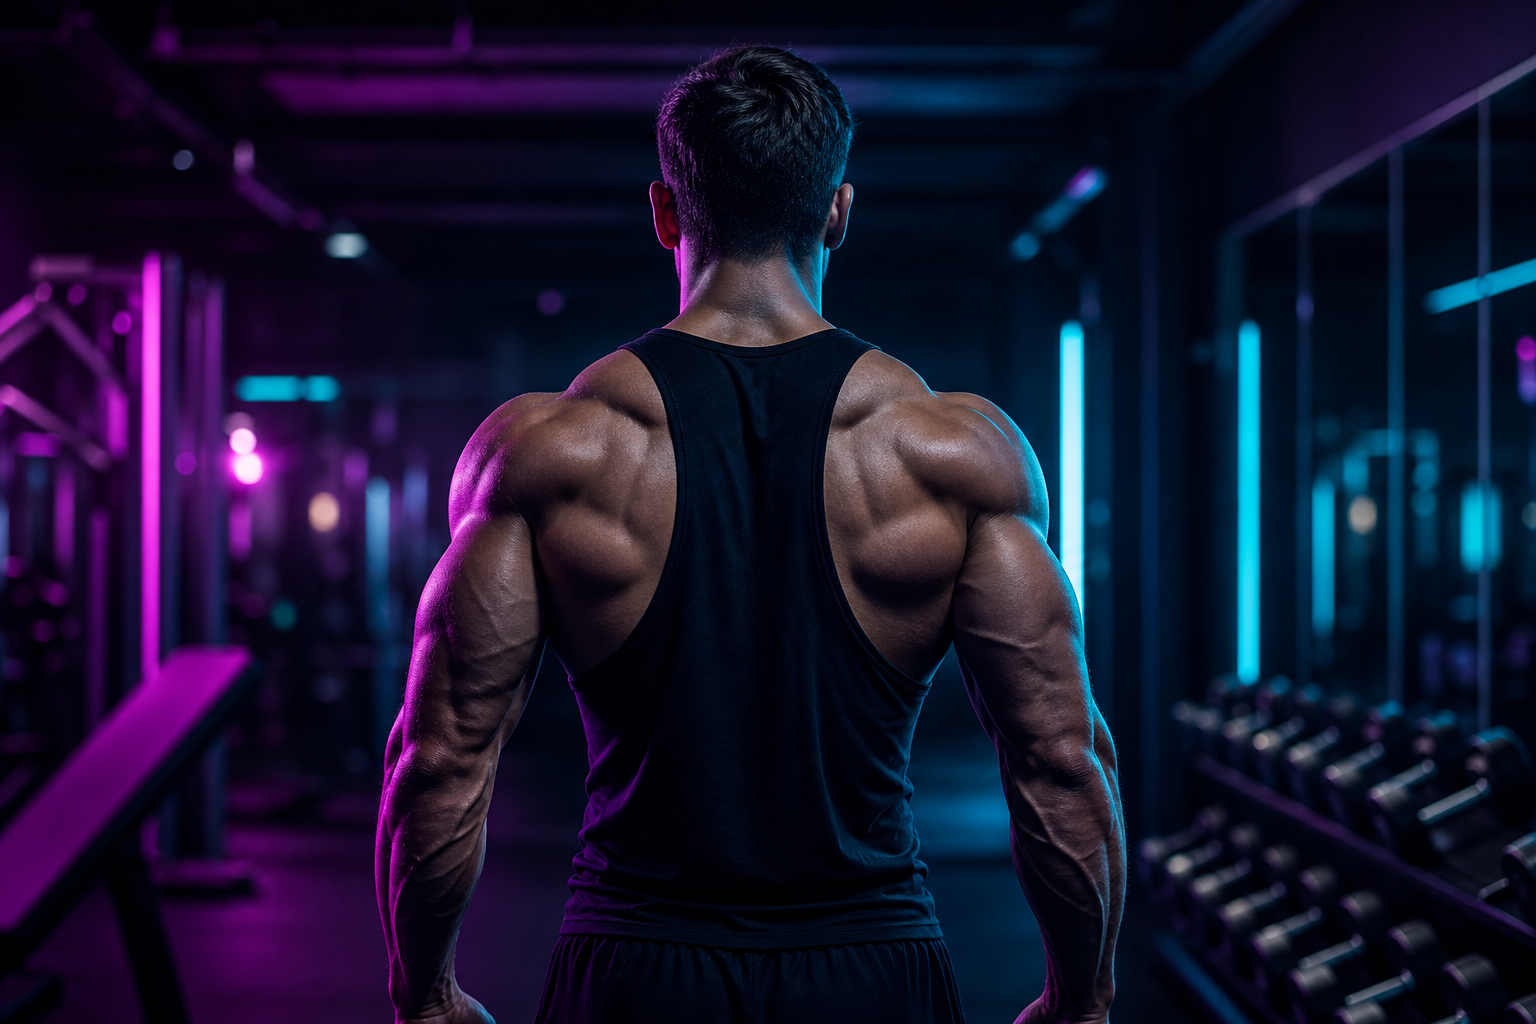
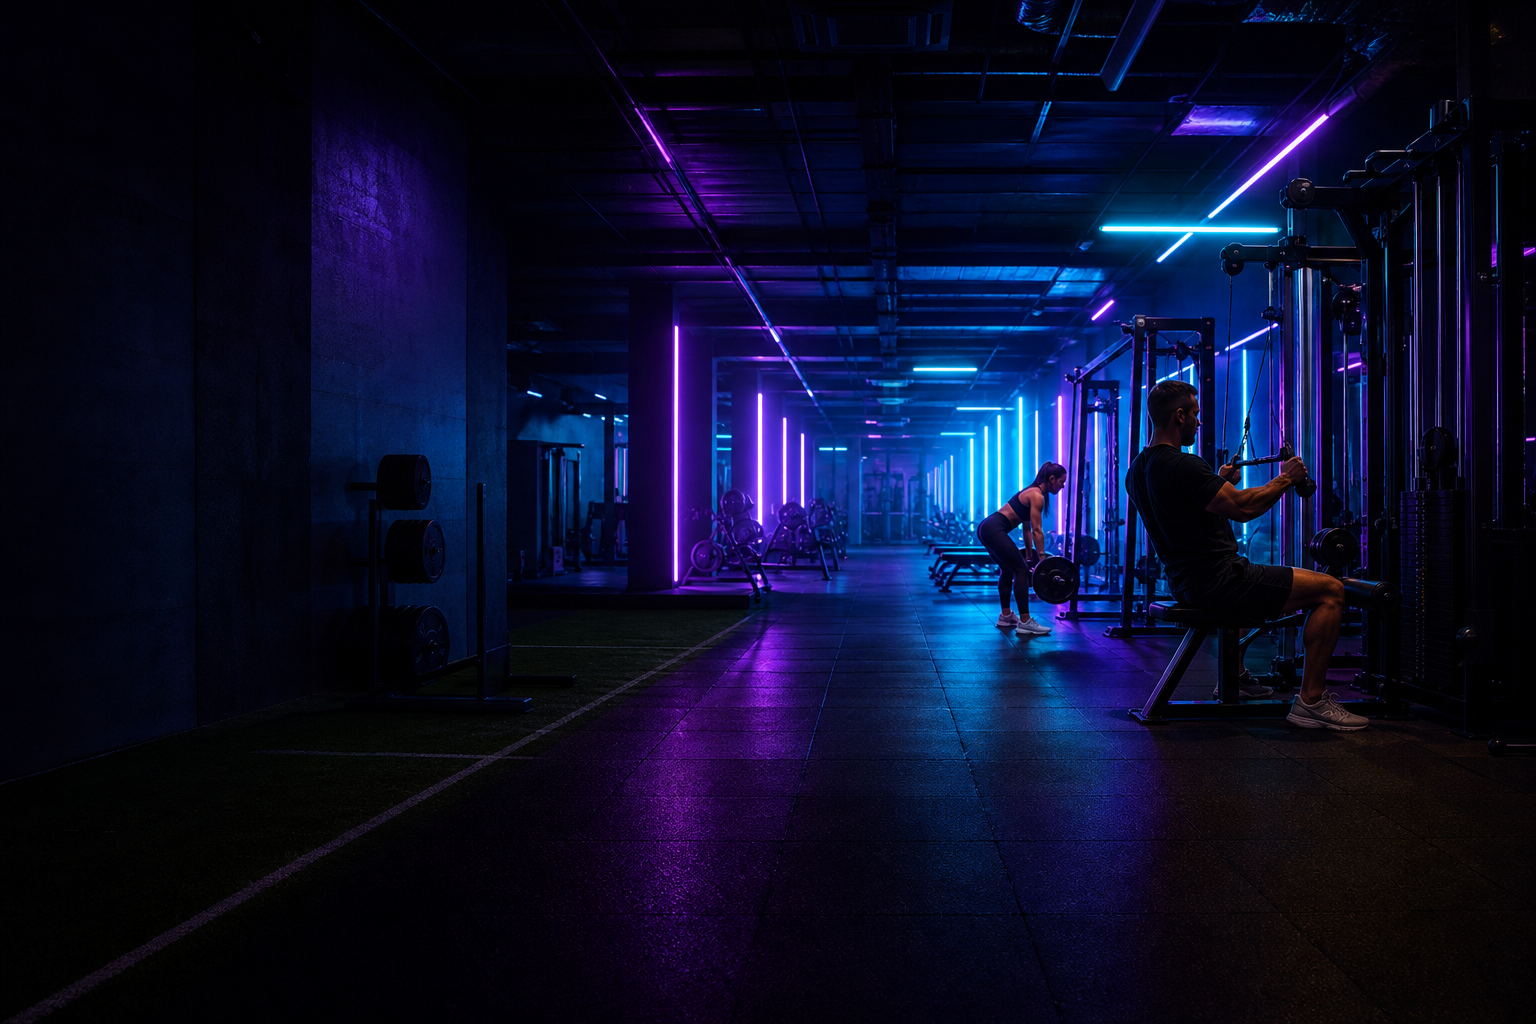
Full-bleed hero background with center glass panel and wide gym photo

diff --git a/components/Hero.tsx b/components/Hero.tsx
@@ -19,6 +19,30 @@ const FREE_BADGE: Record<Locale, string> = {
   tr: "İLK ANTRENMAN ÜCRETSİZ",
 };
 
+const CENTER_OPEN: Record<Locale, string> = {
+  en: "OPEN 24/7",
+  ru: "ОТКРЫТО 24/7",
+  tr: "7/24 AÇIK",
+};
+
+const CENTER_TAGLINE: Record<Locale, string> = {
+  en: "Train anytime. No limits.",
+  ru: "Тренируйся когда угодно. Без ограничений.",
+  tr: "İstediğin zaman antrenman. Sınır yok.",
+};
+
+const CENTER_CLASSES: Record<Locale, string> = {
+  en: "120+ weekly classes",
+  ru: "120+ занятий в неделю",
+  tr: "Haftada 120+ ders",
+};
+
+const CENTER_PROGRAMS: Record<Locale, readonly string[]> = {
+  en: ["Strength", "HIIT", "CrossFit"],
+  ru: ["Сила", "HIIT", "Кроссфит"],
+  tr: ["Güç", "HIIT", "CrossFit"],
+};
+
 const fadeUp = {
   hidden: { opacity: 0, y: 28 },
   show: (i: number) => ({
@@ -119,75 +143,41 @@ export default function Hero() {
 
   return (
     <section id="home" className="relative min-h-screen overflow-hidden pt-20">
-      <div className="relative z-10 mx-auto grid min-h-[calc(100vh-5rem)] max-w-7xl grid-cols-1 gap-4 px-4 pb-10 pt-6 sm:px-6 lg:min-h-screen lg:grid-cols-[1fr_2fr_1fr] lg:grid-rows-[auto_1fr] lg:gap-4 lg:px-10 lg:pb-10 lg:pt-24">
-        <motion.p
+      <div className="pointer-events-none absolute inset-0">
+        <Image
+          src={HERO_IMAGE}
+          alt="Modern gym interior with neon lighting"
+          fill
+          priority
+          className="object-cover object-[55%_center] lg:object-[58%_center]"
+          sizes="100vw"
+        />
+        <div
+          className="absolute inset-0 bg-gradient-to-r from-[#0a0a12]/95 via-[#0a0a12]/45 to-[#0a0a12]/25 lg:from-[#0a0a12]/92 lg:via-[#0a0a12]/30 lg:to-[#0a0a12]/15"
+          aria-hidden
+        />
+        <div
+          className="absolute inset-0 bg-gradient-to-t from-[#0a0a12] via-transparent to-[#0a0a12]/40"
+          aria-hidden
+        />
+        <div
+          className="absolute inset-0 bg-[radial-gradient(ellipse_80%_60%_at_20%_50%,rgba(124,58,255,0.12),transparent)]"
+          aria-hidden
+        />
+      </div>
+
+      <div className="relative z-10 mx-auto grid min-h-[calc(100vh-5rem)] max-w-7xl grid-cols-1 gap-6 px-4 pb-10 pt-6 sm:px-6 lg:min-h-screen lg:grid-cols-[1.05fr_0.95fr_0.85fr] lg:items-center lg:gap-6 xl:gap-8 lg:px-10 lg:pb-10 lg:pt-24">
+        <motion.div
           custom={0}
           variants={fadeUp}
           initial="hidden"
           animate="show"
-          className="order-1 text-xs tracking-[0.1em] text-white/40 lg:col-start-3 lg:row-start-1 lg:text-right"
+          className="order-2 flex flex-col justify-center gap-6 lg:order-1"
         >
-          {BRACKET_TEXT[locale]}
-        </motion.p>
+          <p className="text-xs tracking-[0.1em] text-white/40 lg:max-w-md">
+            {BRACKET_TEXT[locale]}
+          </p>
 
-        <motion.div
-          custom={1}
-          variants={fadeUp}
-          initial="hidden"
-          animate="show"
-          className="relative order-2 min-h-[280px] overflow-hidden rounded-[24px] sm:min-h-[360px] lg:col-start-2 lg:row-start-1 lg:row-span-2 lg:min-h-0"
-        >
-          <Image
-            src={HERO_IMAGE}
-            alt="Athletes training in a modern gym"
-            fill
-            priority
-            className="object-cover"
-            sizes="(max-width: 1024px) 100vw, 50vw"
-          />
-          <div
-            className="absolute inset-0 bg-gradient-to-t from-[#0a0a12]/70 via-transparent to-transparent"
-            aria-hidden
-          />
-          <div className="absolute bottom-4 left-4 z-10 glass flex max-w-[260px] items-center gap-3 rounded-2xl px-4 py-3">
-            <span className="h-2 w-2 shrink-0 animate-pulse rounded-full bg-neon-green shadow-[0_0_8px_#00FF88]" />
-            <span className="text-xs font-semibold uppercase tracking-wide text-white">
-              {FREE_BADGE[locale]}
-            </span>
-          </div>
-        </motion.div>
-
-        <div className="order-3 flex flex-col gap-4 lg:col-start-3 lg:row-start-1 lg:row-span-2 lg:pt-12">
-          <GlassStatCard
-            value={500}
-            suffix="+"
-            label={t.hero.statMembers}
-            max={600}
-            delay={2}
-          />
-          <GlassStatCard
-            value={15}
-            suffix=""
-            label={t.hero.statTrainers}
-            max={20}
-            delay={3}
-          />
-          <GlassStatCard
-            value={10}
-            suffix="+"
-            label={t.hero.statYears}
-            max={15}
-            delay={4}
-          />
-        </div>
-
-        <motion.div
-          custom={5}
-          variants={fadeUp}
-          initial="hidden"
-          animate="show"
-          className="relative z-20 order-4 flex flex-col justify-start gap-6 lg:col-start-1 lg:row-start-1 lg:row-span-2 lg:self-center lg:py-4"
-        >
           <div>
             <p
               className={`${headlineFont} text-[clamp(3rem,8vw,6.5rem)] leading-[0.9] text-white drop-shadow-[0_2px_24px_rgba(0,0,0,0.8)]`}
@@ -202,33 +192,121 @@ export default function Hero() {
             </p>
           </div>
 
-          <div className="mt-2 space-y-5">
-            <p className="section-body max-w-sm">{t.hero.subheadline}</p>
-            <div className="flex flex-wrap gap-3">
-              <a
-                href="#pricing"
-                className="btn-neon-green px-8 py-4 text-sm uppercase"
-              >
-                {t.hero.getStarted}
-              </a>
+          <p className="section-body max-w-md">{t.hero.subheadline}</p>
+
+          <div className="flex flex-wrap gap-3">
+            <a
+              href="#pricing"
+              className="btn-neon-green px-8 py-4 text-sm uppercase"
+            >
+              {t.hero.getStarted}
+            </a>
+            <a
+              href="#programs"
+              className="glass rounded-xl border border-white/20 px-8 py-4 text-sm font-bold uppercase text-white transition-colors hover:border-neon-purple/50"
+            >
+              {t.hero.seePrograms}
+            </a>
+          </div>
+
+          <a
+            href="#programs"
+            className="inline-flex items-center gap-2 text-sm text-white/50 transition-colors hover:text-neon-blue"
+          >
+            <span className="flex h-9 w-9 items-center justify-center rounded-full border border-white/20 bg-white/5 text-white">
+              ▶
+            </span>
+            {t.hero.seePrograms}
+          </a>
+
+          <div className="glass inline-flex max-w-[280px] items-center gap-3 rounded-2xl px-4 py-3">
+            <span className="h-2 w-2 shrink-0 animate-pulse rounded-full bg-neon-green shadow-[0_0_8px_#00FF88]" />
+            <span className="text-xs font-semibold uppercase tracking-wide text-white">
+              {FREE_BADGE[locale]}
+            </span>
+          </div>
+        </motion.div>
+
+        <motion.div
+          custom={1}
+          variants={fadeUp}
+          initial="hidden"
+          animate="show"
+          className="order-3 hidden flex-col justify-center gap-5 lg:order-2 lg:flex"
+        >
+          <div className="glass-card relative overflow-hidden rounded-[24px] border border-white/10 p-6">
+            <div
+              className="pointer-events-none absolute -right-8 -top-8 h-32 w-32 rounded-full bg-neon-purple/20 blur-3xl"
+              aria-hidden
+            />
+            <div
+              className="pointer-events-none absolute -bottom-10 left-4 h-24 w-24 rounded-full bg-neon-blue/15 blur-3xl"
+              aria-hidden
+            />
+            <div className="relative flex items-center gap-3">
+              <span className="relative flex h-3 w-3">
+                <span className="absolute inline-flex h-full w-full animate-ping rounded-full bg-neon-green opacity-60" />
+                <span className="relative inline-flex h-3 w-3 rounded-full bg-neon-green shadow-[0_0_12px_#00FF88]" />
+              </span>
+              <p className="font-display text-3xl font-bold tracking-wide text-white">
+                {CENTER_OPEN[locale]}
+              </p>
+            </div>
+            <p className="relative mt-3 text-sm text-white/65">
+              {CENTER_TAGLINE[locale]}
+            </p>
+            <div className="relative mt-5 flex flex-wrap gap-2">
+              {CENTER_PROGRAMS[locale].map((program) => (
+                <span
+                  key={program}
+                  className="rounded-full border border-neon-purple/35 bg-neon-purple/10 px-3 py-1.5 text-xs font-semibold uppercase tracking-wide text-white/85"
+                >
+                  {program}
+                </span>
+              ))}
+            </div>
+            <div className="relative mt-6 flex items-center justify-between border-t border-white/10 pt-5">
+              <div>
+                <p className="font-display text-2xl font-bold text-neon-blue">
+                  120+
+                </p>
+                <p className="text-[10px] font-semibold uppercase tracking-widest text-white/50">
+                  {CENTER_CLASSES[locale]}
+                </p>
+              </div>
               <a
                 href="#programs"
-                className="glass rounded-xl border border-white/20 px-8 py-4 text-sm font-bold uppercase text-white transition-colors hover:border-neon-purple/50"
+                className="rounded-xl border border-white/15 bg-white/5 px-4 py-2.5 text-xs font-bold uppercase tracking-wide text-white transition-colors hover:border-neon-purple/50 hover:bg-white/10"
               >
                 {t.hero.seePrograms}
               </a>
             </div>
-            <a
-              href="#programs"
-              className="inline-flex items-center gap-2 text-sm text-white/50 transition-colors hover:text-neon-blue"
-            >
-              <span className="flex h-9 w-9 items-center justify-center rounded-full border border-white/20 bg-white/5 text-white">
-                ▶
-              </span>
-              {t.hero.seePrograms}
-            </a>
           </div>
         </motion.div>
+
+        <div className="order-1 flex flex-col gap-4 lg:order-3 lg:items-end lg:pt-8">
+          <GlassStatCard
+            value={500}
+            suffix="+"
+            label={t.hero.statMembers}
+            max={600}
+            delay={1}
+          />
+          <GlassStatCard
+            value={15}
+            suffix=""
+            label={t.hero.statTrainers}
+            max={20}
+            delay={2}
+          />
+          <GlassStatCard
+            value={10}
+            suffix="+"
+            label={t.hero.statYears}
+            max={15}
+            delay={3}
+          />
+        </div>
       </div>
     </section>
   );
